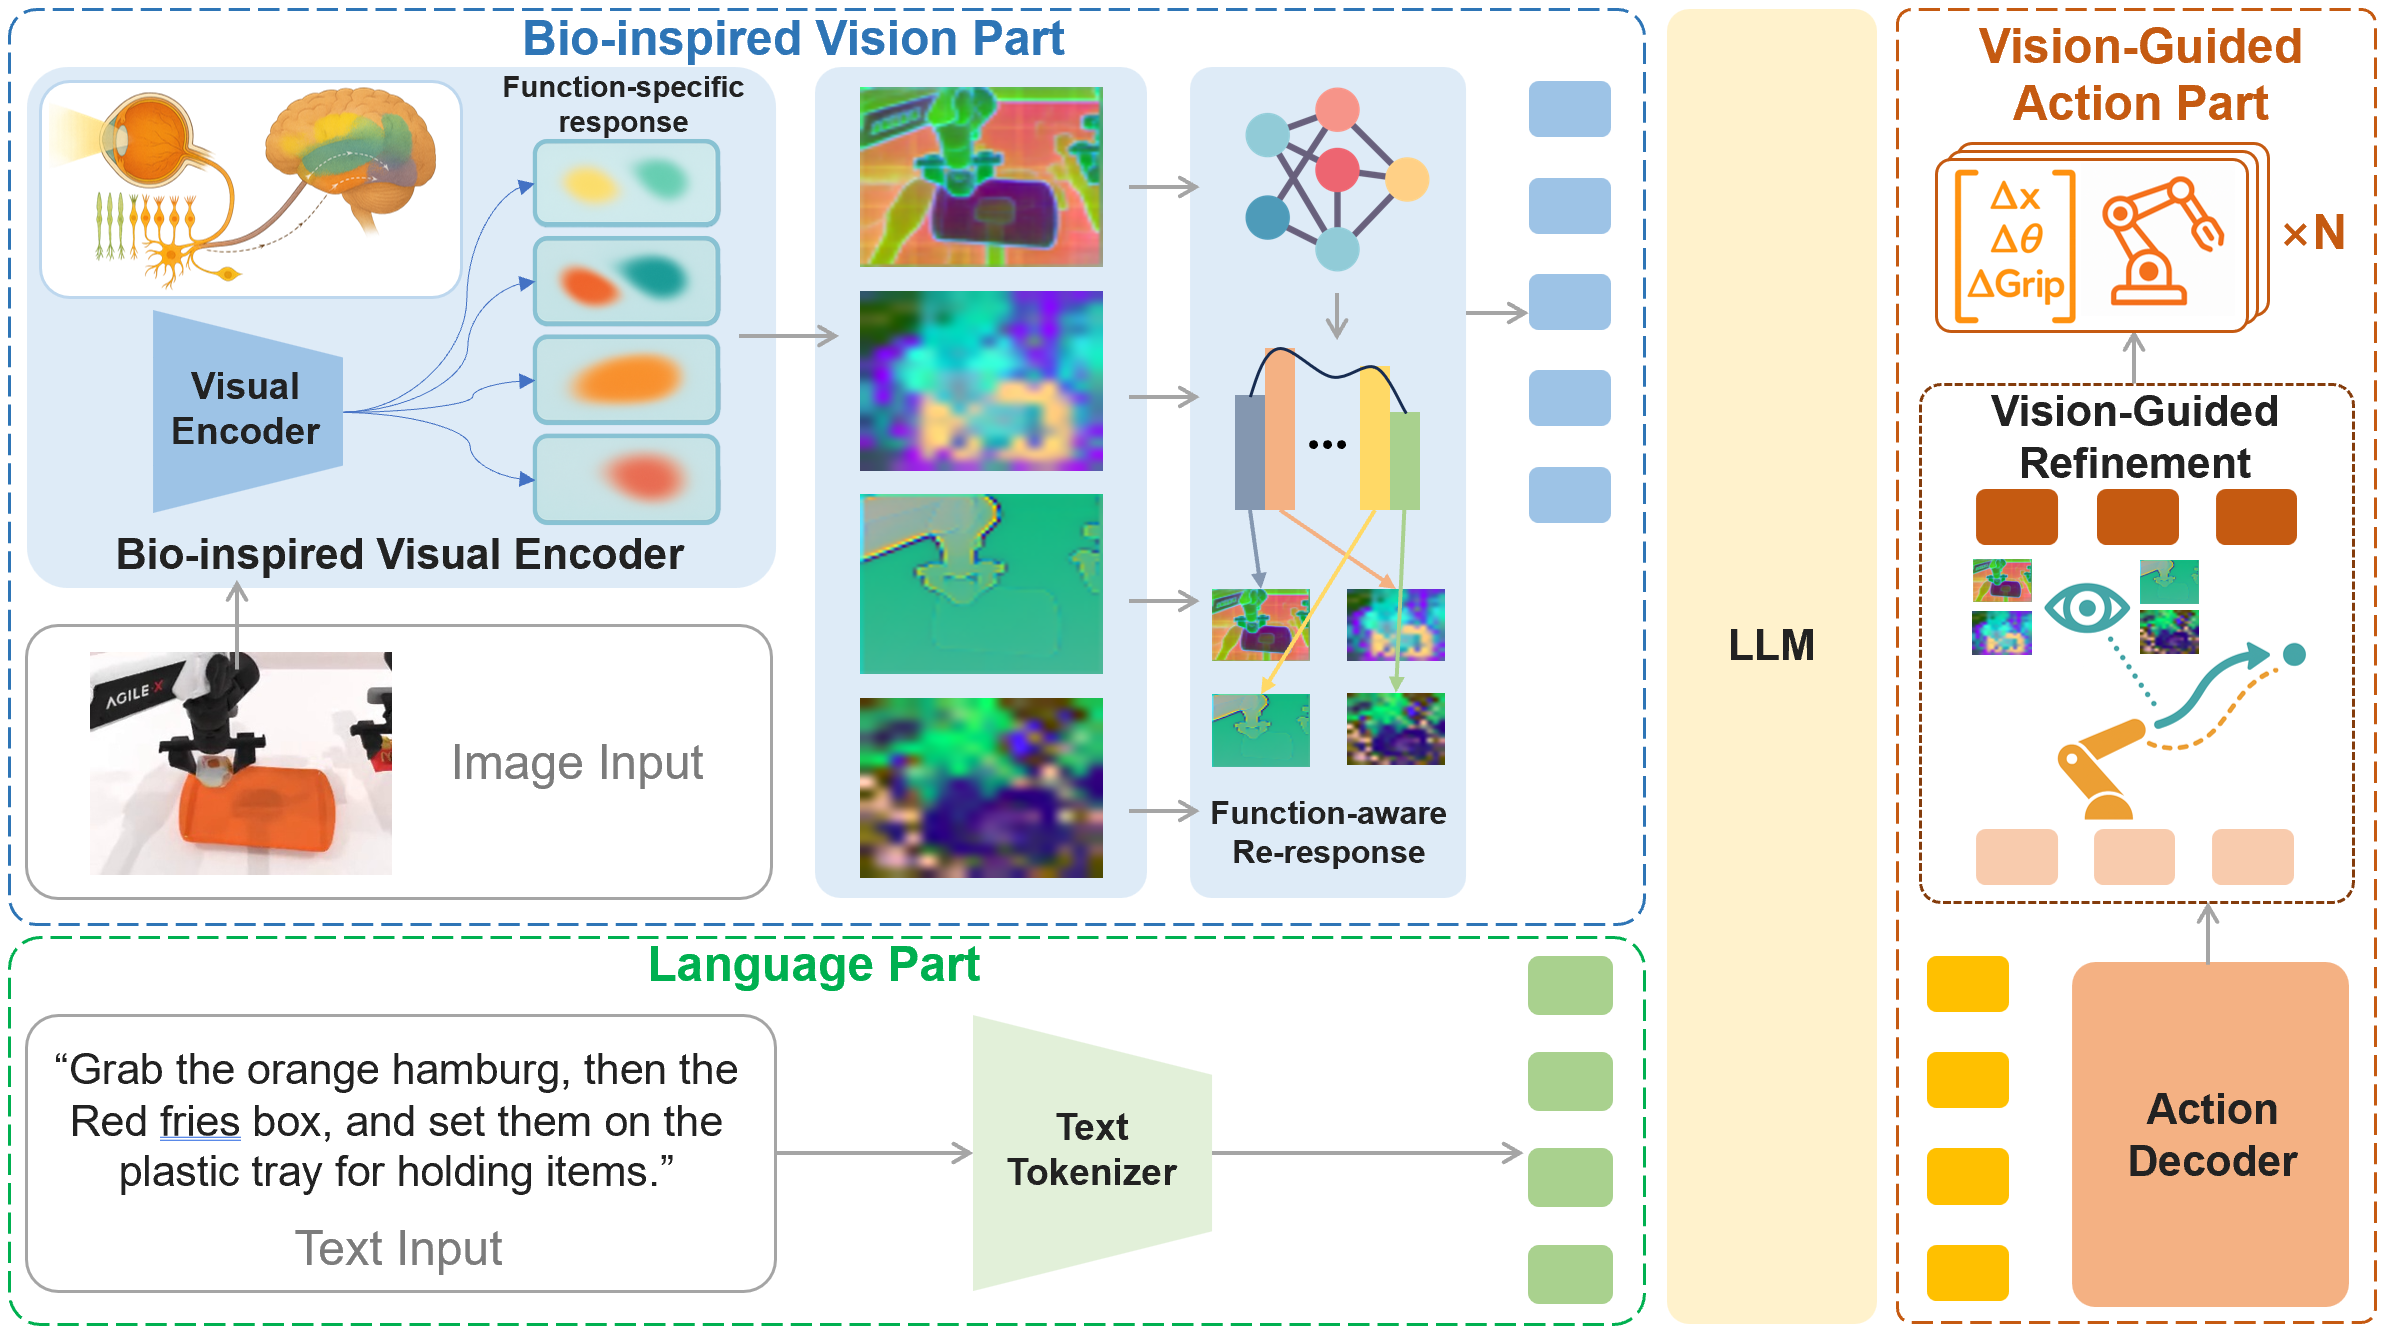
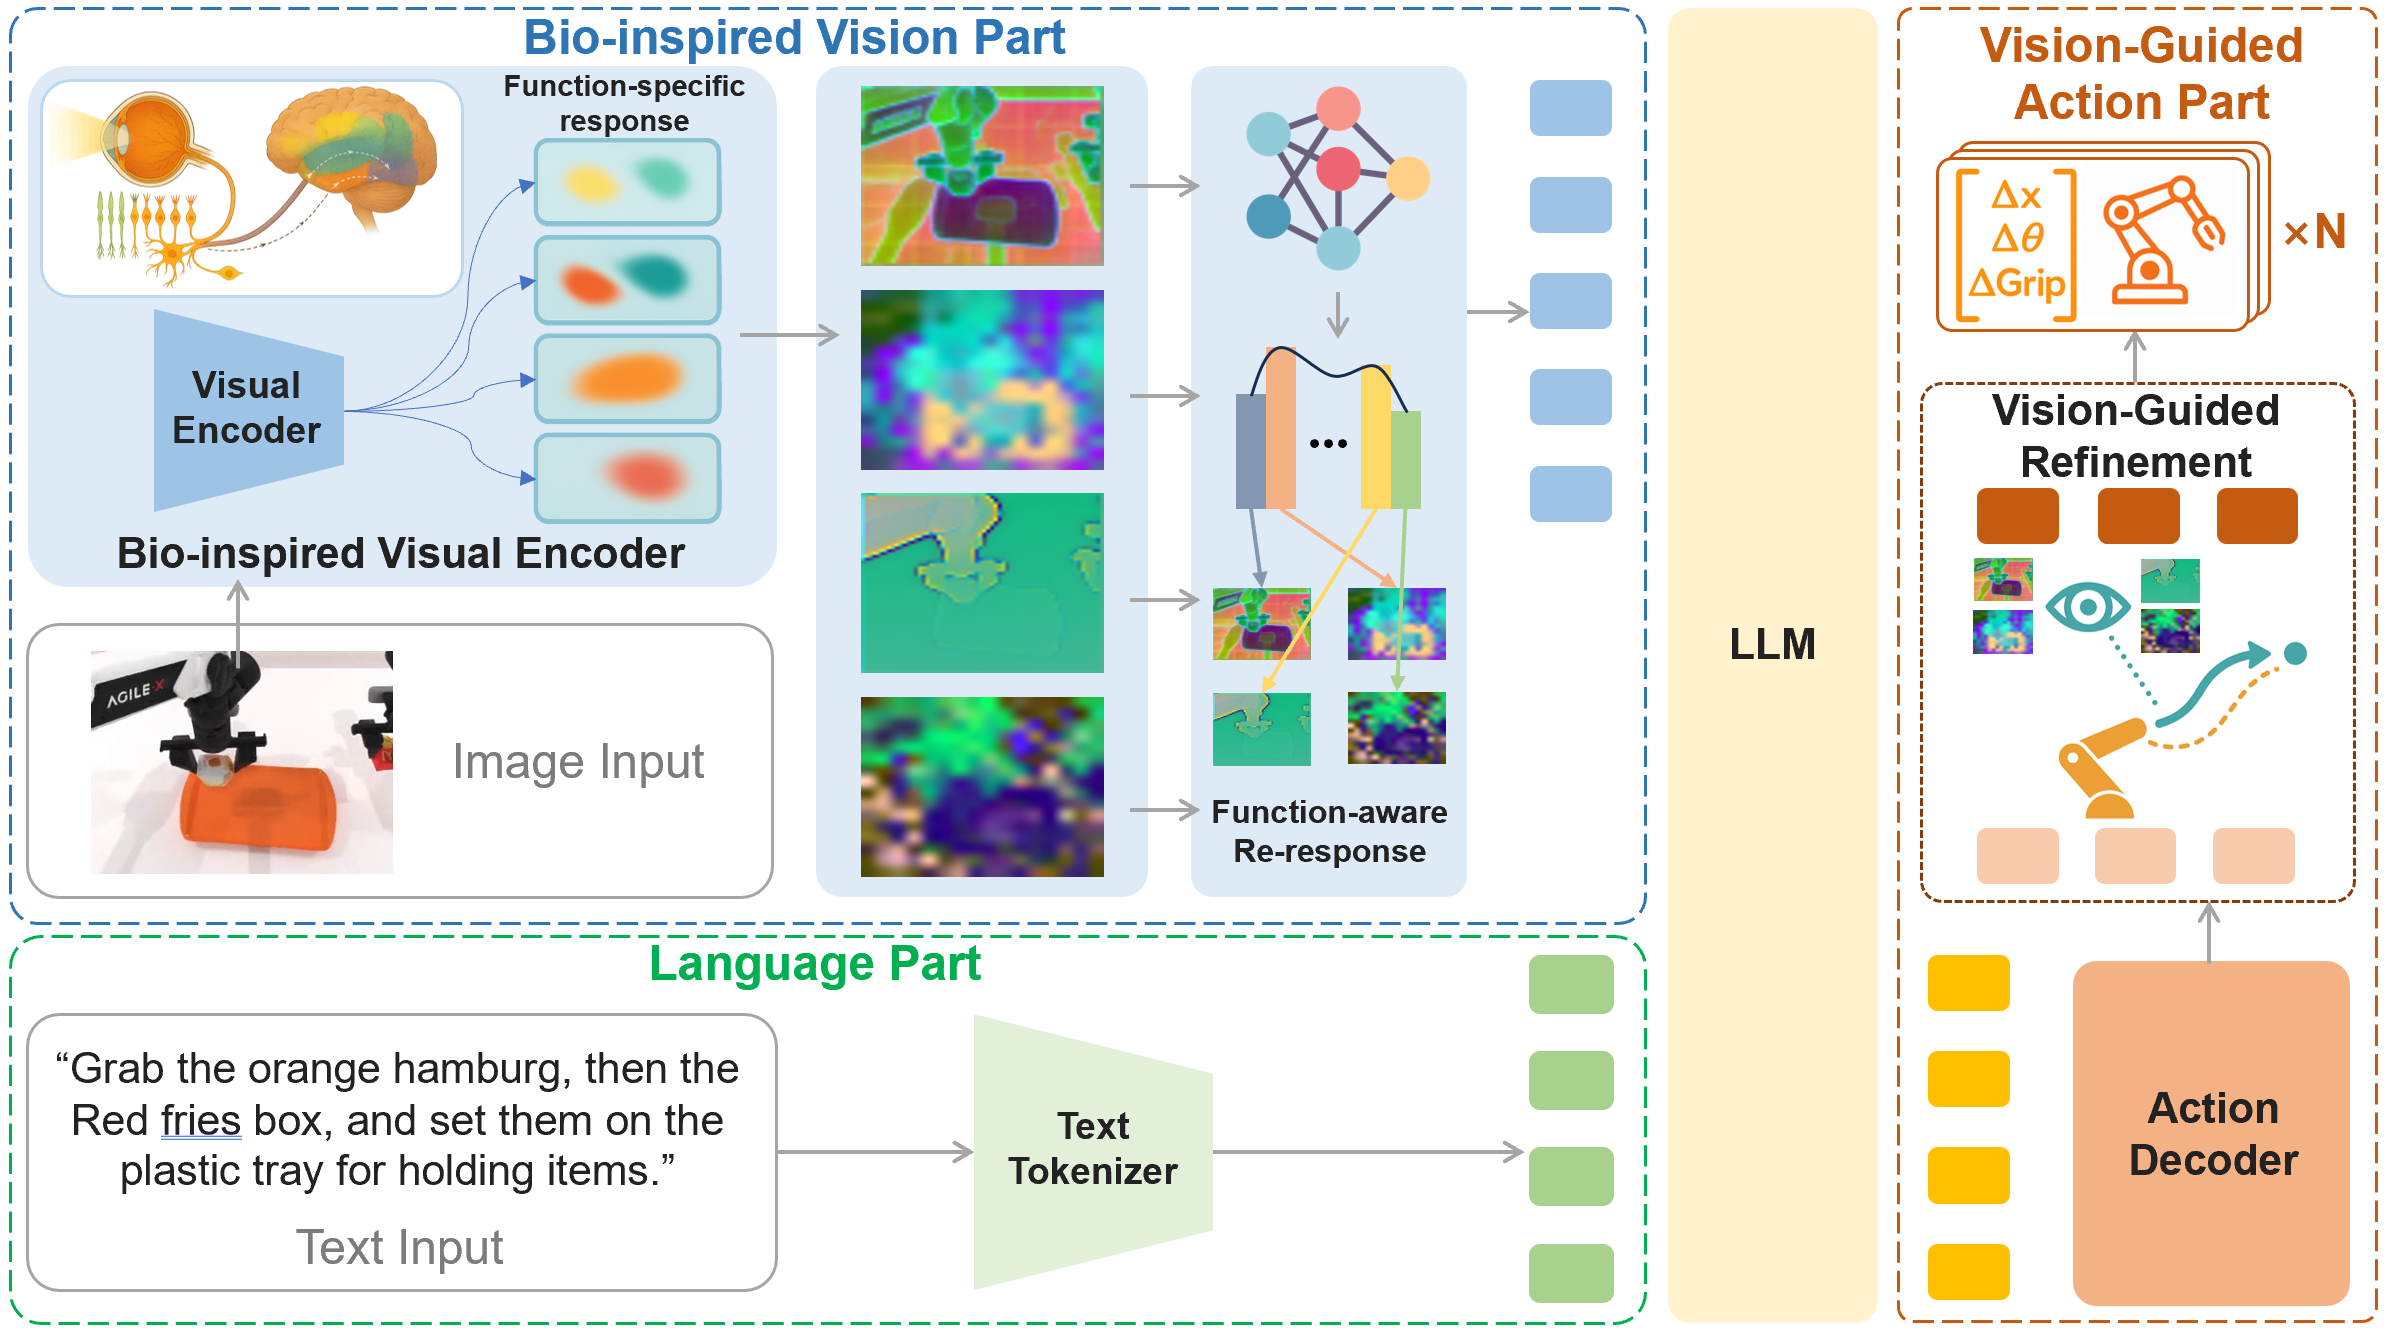
update

diff --git a/index.html b/index.html
@@ -105,7 +105,7 @@
           <div class="is-size-5 publication-authors">
             <sup>1</sup>Huazhong University of Science and Technology</span><br>
             <sup>2</sup>JingChu BOT</span><br>
-            <i>Last updated: <b>November 11, 2025</b></i>
+            <i>Last updated: <b>November 17, 2025</b></i>
             <!-- <br>
             <span class="author-block">&#8224;<i>Corresponding author</i></span> -->
           </div>
